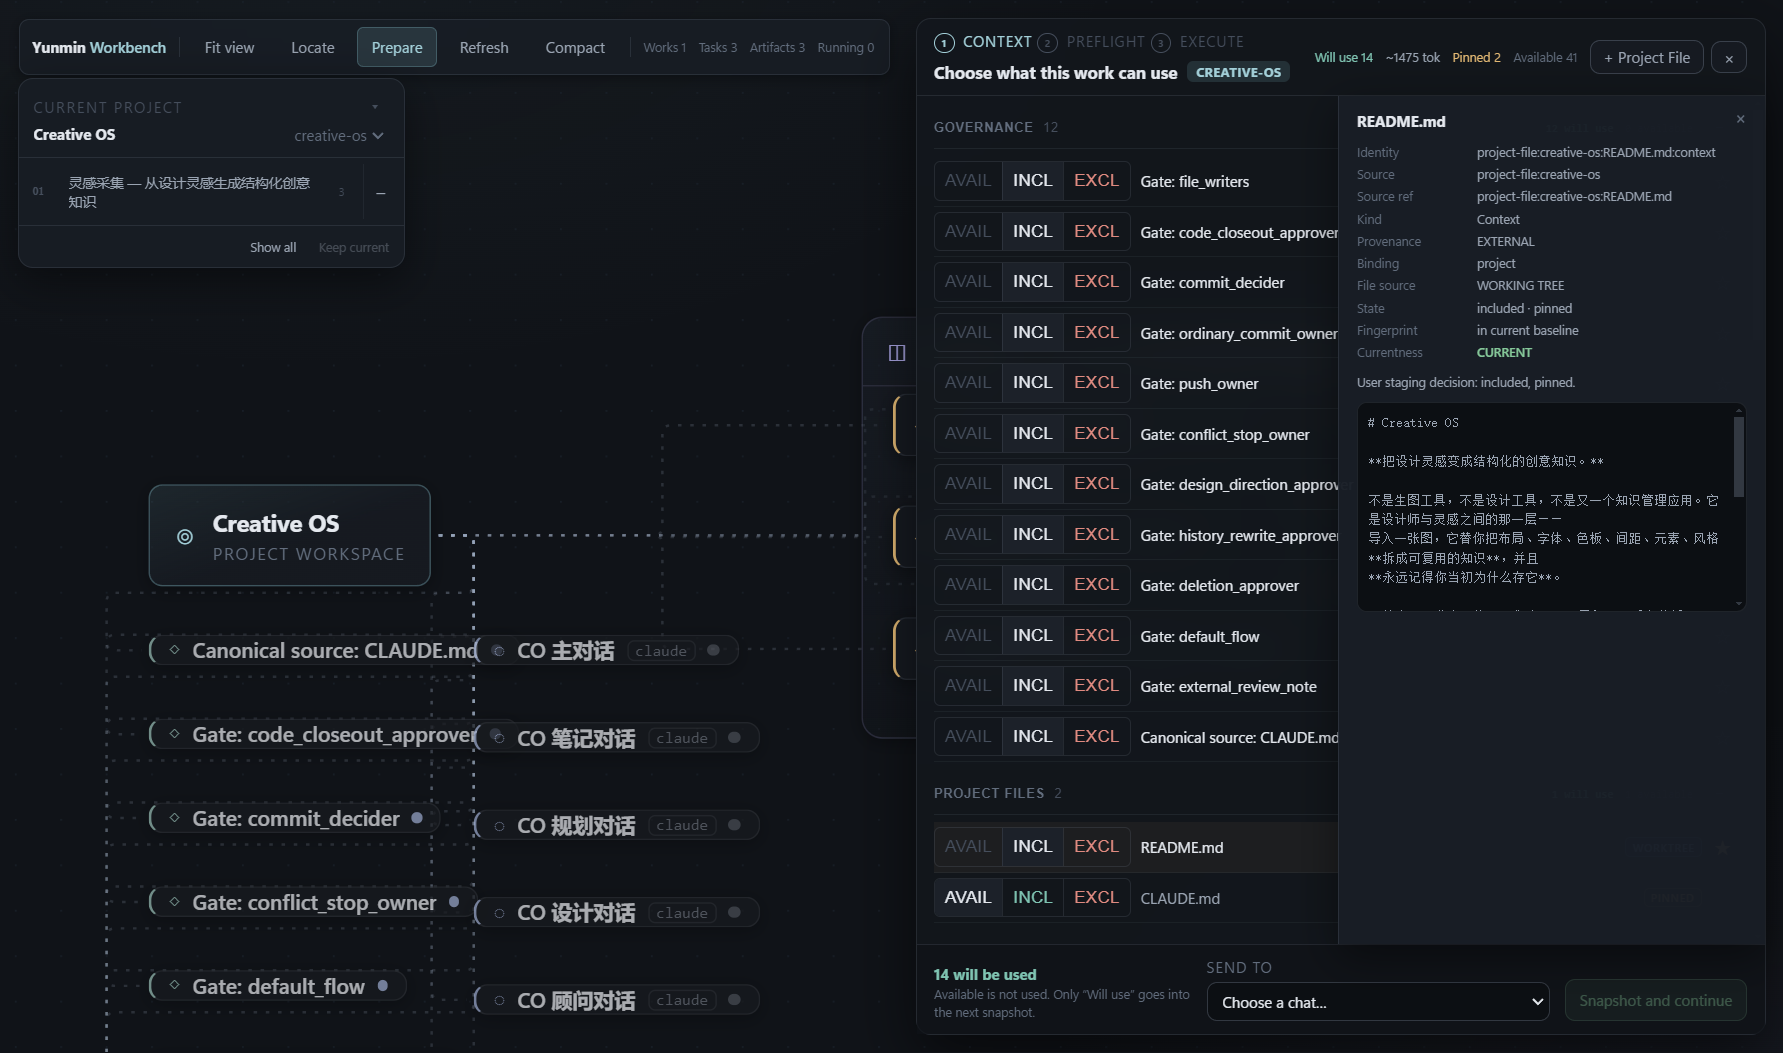
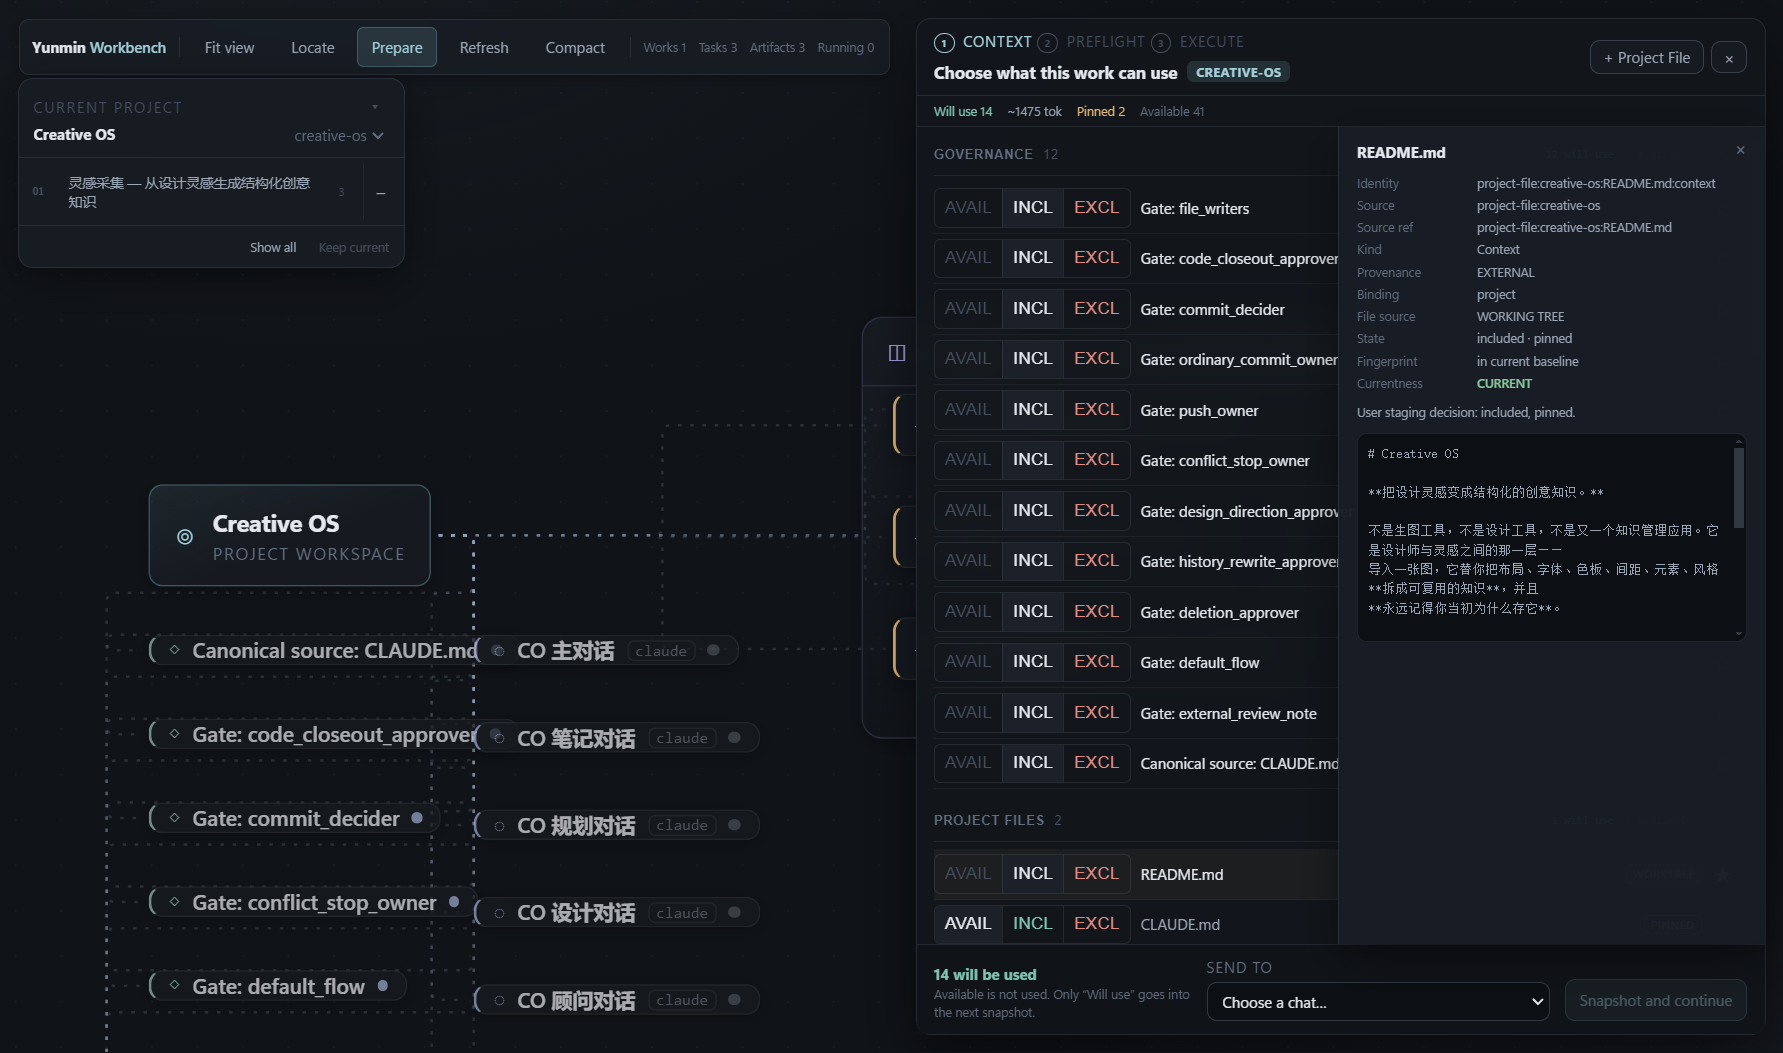
feat: final visual acceptance pass across all surfaces

diff --git a/src/renderer-vnext/src/styles/index.css b/src/renderer-vnext/src/styles/index.css
@@ -748,10 +748,13 @@ body,
 
 .cabinet-summary {
   display: flex;
-  gap: 10px;
-  margin-left: auto;
+  align-items: baseline;
+  gap: 12px;
+  padding: 5px 14px 6px;
+  border-bottom: 1px solid var(--wb-border);
   font-size: var(--wb-fs-xs);
   white-space: nowrap;
+  overflow-x: auto;
 }
 .sum-included { color: var(--wb-teal); }
 .sum-size { color: var(--wb-text-secondary); }
@@ -775,8 +778,8 @@ body,
 .cabinet-recheck:hover { border-color: var(--wb-accent); color: var(--wb-text); }
 .cabinet-actions button { white-space: nowrap; }
 .cabinet-actions button:disabled { opacity: 0.45; cursor: default; }
-.cabinet-compile { border-color: rgba(134, 201, 154, 0.4); color: var(--wb-green); }
-.cabinet-compile:hover { border-color: var(--wb-green); color: var(--wb-green); }
+.cabinet-compile { border-color: rgba(127, 181, 192, 0.4); color: var(--wb-accent-strong); }
+.cabinet-compile:hover { border-color: var(--wb-accent); color: #fff; }
 .cabinet-add { border-color: rgba(127, 196, 178, 0.4); color: var(--wb-teal); }
 .cabinet-add[aria-expanded='true'] { border-color: var(--wb-teal); }
 .cabinet-add-pinned { border-color: rgba(226, 184, 115, 0.4); color: var(--wb-amber); }
@@ -1094,7 +1097,8 @@ body,
 .preparation-meaning strong { color: var(--wb-teal); font-size: var(--wb-fs-md); }
 .preparation-meaning span { color: var(--wb-text-muted); font-size: var(--wb-fs-xs); line-height: 1.4; }
 .preparation-footer label { display: flex; flex-direction: column; gap: 4px; color: var(--wb-text-muted); font: 700 var(--wb-fs-xs)/1.2 inherit; text-transform: uppercase; letter-spacing: .06em; }
-.preparation-footer .cabinet-compile { min-height: 34px; border: 1px solid rgba(134,201,154,.4); border-radius: var(--wb-radius); background: var(--wb-green-dim); padding: 7px 11px; font: 700 var(--wb-fs-sm)/1.2 inherit; cursor: pointer; }
+.preparation-footer .cabinet-compile { min-height: 34px; border: 1px solid rgba(127,181,192,.45); border-radius: var(--wb-radius); background: var(--wb-accent-dim); color: var(--wb-accent-strong); padding: 7px 11px; font: 700 var(--wb-fs-sm)/1.2 inherit; cursor: pointer; }
+.preparation-footer .cabinet-compile:hover:not(:disabled) { background: rgba(127,181,192,.26); color: #fff; }
 .preparation-footer .cabinet-compile:disabled { opacity: .38; cursor: default; }
 
 .currentness { font-weight: 600; }

diff --git a/src/renderer-vnext/src/components/cabinet/ContextCabinet.tsx b/src/renderer-vnext/src/components/cabinet/ContextCabinet.tsx
@@ -545,12 +545,6 @@ export function ContextCabinet({ projectId, selection, onPrepared, onClose }: {
             <span className="cabinet-for">staging for · {selection.label}</span>
           )}
         </div>
-        <div className="cabinet-summary" aria-label="Staging summary">
-          <span className="sum-included">Will use {summary.included}</span>
-          <span className="sum-size">~{summary.roughTokens} tok</span>
-          <span className="sum-pinned">Pinned {summary.pinned}</span>
-          <span className="sum-available">Available {summary.available}</span>
-        </div>
         <div className="cabinet-actions">
           <button
             type="button"
@@ -564,6 +558,12 @@ export function ContextCabinet({ projectId, selection, onPrepared, onClose }: {
           <button type="button" className="cabinet-close" aria-label="Close Context Cabinet" onClick={onClose}>×</button>
         </div>
       </header>
+      <div className="cabinet-summary" aria-label="Staging summary">
+        <span className="sum-included">Will use {summary.included}</span>
+        <span className="sum-size">~{summary.roughTokens} tok</span>
+        <span className="sum-pinned">Pinned {summary.pinned}</span>
+        <span className="sum-available">Available {summary.available}</span>
+      </div>
       {(error || stagingProblem) && <p className="cabinet-error">{error || stagingProblem}</p>}
       {pickerOpen && (
         <div className="cabinet-picker" role="search" aria-label="Add project file">

diff --git a/src/main/compactWindow.ts b/src/main/compactWindow.ts
@@ -27,7 +27,10 @@ import { z } from 'zod';
  */
 
 const COMPACT_DEFAULT_WIDTH = 380;
-const COMPACT_COLLAPSED_HEIGHT = 150;
+// Collapsed height fits the drag strip + project/work/task rows + both
+// action buttons with no scrolling: the two actions must never hide below
+// the fold in the resting state.
+const COMPACT_COLLAPSED_HEIGHT = 208;
 const COMPACT_EXPANDED_HEIGHT = 380;
 const EDGE_MARGIN = 12;
 

diff --git a/src/renderer-compact/compact.css b/src/renderer-compact/compact.css
@@ -81,8 +81,8 @@ body,
 .compact-body {
   display: flex;
   flex-direction: column;
-  gap: 9px;
-  padding: 10px 12px;
+  gap: 7px;
+  padding: 8px 12px;
   overflow-y: auto;
   flex: 1;
 }
